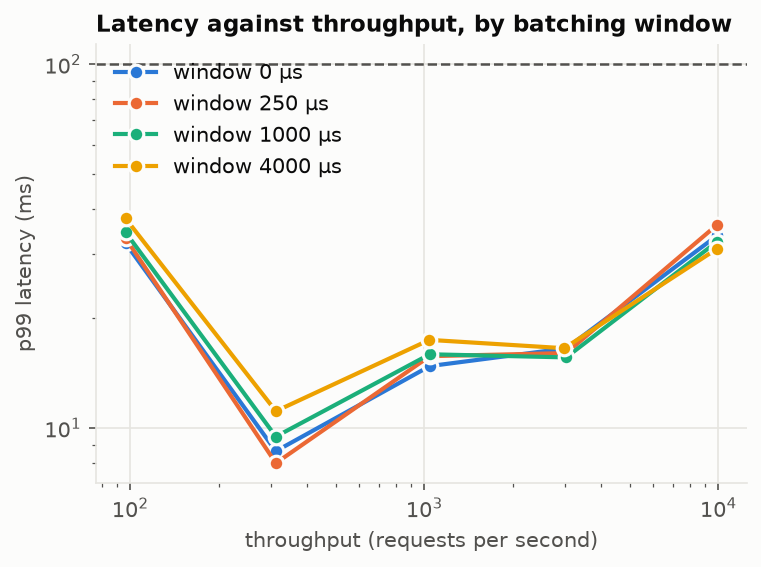
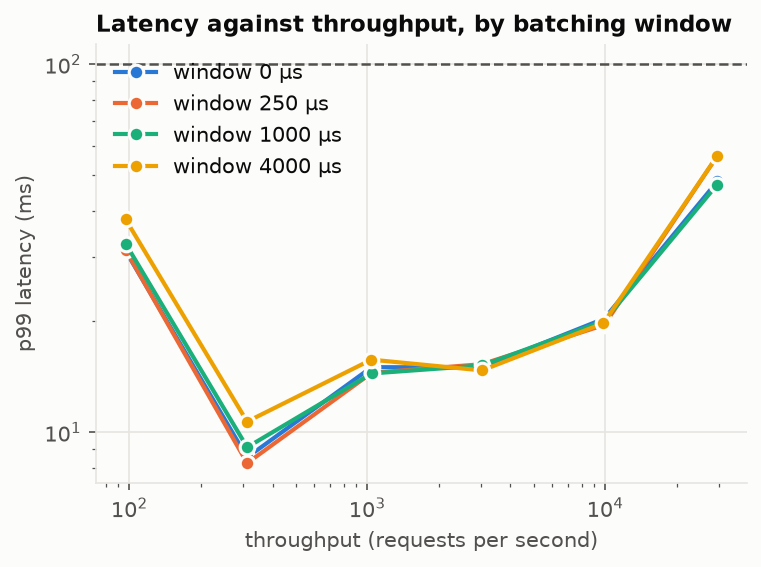
Planning service results after parallel connection

diff --git a/bench/README.md b/bench/README.md
@@ -105,38 +105,41 @@ changes the roadmap. Compile with `COVEN_SCHEDULE=runtime` to choose it with `OM
   refused.
 - **Rates:** 100, 300, 1,000, 3,000, 10,000 and 30,000 requests per second.
 - **Capacity:** the highest tested rate served with p99 latency at most 100 ms and nothing refused.
-  The steps are coarse, so 10,000 means "between 10,000 and 30,000".
-- **Saturated throughput:** requests answered per second when 30,000 per second are offered.
+  The steps are coarse: 10,000 means "between 10,000 and 30,000", and 30,000 means "at least
+  30,000".
+- **Served at 30,000:** requests answered per second when 30,000 per second are offered.
 
-[`load.py`](load.py) runs the same test over HTTP against `coven-server`. Coven `00df383`.
+[`load.py`](load.py) runs the same test over HTTP against `coven-server`. Coven `5d9553a`.
 
 ### Batching window
 
 ![Latency against throughput, by batching window](results/figures/6_serving.png)
 
-Lazy, one scene moving every second, 16 threads. Up to 10,000 requests per second the p50 stays at
-0.4–3 ms and the p99 under 40 ms. Waiting for a batch to fill never helps: when the service is busy,
-new requests join the next round anyway, and when it is idle the wait only adds latency (p50 at 100
-requests/s: 0.4 ms with no window, 4.5 ms with 4 ms). The default window is 0. At 30,000 offered the
-service saturates at 18,400–19,100 requests per second.
+Lazy, one scene moving every second, 16 threads. Up to 30,000 requests per second, the highest rate
+tested, the p50 stays at 0.3–4.5 ms and the p99 under 60 ms. Waiting for a batch to fill never
+helps: when the service is busy, new requests join the next round anyway, and when it is idle the
+wait only adds latency (p50 at 100 requests/s: 0.4 ms with no window, 4.5 ms with 4 ms). The default
+window is 0.
 
 ### Threads and scenes
 
 ![Capacity by thread count](results/figures/7_scenes.png)
 
-Scenes moving every second:
+Scenes moving every second, capacity in requests per second:
 
-| | 1 thread | 4 threads | 16 threads | Saturated, 16 threads |
+| | 1 thread | 4 threads | 16 threads | Served at 30,000, 16 threads |
 |---|---|---|---|---|
-| Lazy, 1 shared scene | 313 | 3,036 | 9,915 | 18,762 |
-| Lazy, 16 separate scenes | 0 | 309 | 1,043 | 7,752 |
-| Eager, 1 shared scene | 2,979 | 9,920 | 9,963 | 21,465 |
-| Eager, 16 separate scenes | 0 | 0 | 0 | 14,869 |
+| Lazy, 1 shared scene | 313 | 3,038 | 29,598 | 29,598 |
+| Lazy, 16 separate scenes | 0 | 309 | 3,031 | 15,926 |
+| Eager, 1 shared scene | 2,979 | 9,930 | 29,892 | 29,892 |
+| Eager, 16 separate scenes | 0 | 0 | 0 | 23,376 |
 
-Capacity in requests per second. Lazy saturated throughput grows 15× from 1 to 16 threads. Separate
-scenes share no checks: each request in a fresh scene version finds its blocked edges on its own,
-which takes 3.5–10 rounds instead of 2.3–3 in a shared scene. Eager with 16 scenes has p50 under 5 ms but p99 of 160–350 ms:
-all 16 scenes move at the same moment, and the 16 rechecks run back to back while requests wait.
+At 30,000 offered, lazy with one scene answers 1,284 requests per second on 1 thread, 9,445 on 4 and
+29,598 on 16: at least 23× from 1 to 16 threads, since 16 threads keep up with the offered rate.
+Separate scenes share no checks: each request in a fresh scene version finds its blocked edges on its
+own, which takes 3.4–10 rounds instead of 2–3 in a shared scene. Eager with 16 scenes has p50 under
+10 ms but p99 of 165–300 ms: all 16 scenes move at the same moment, and the 16 rechecks run back to
+back while requests wait.
 
 ### Lazy against eager
 
@@ -146,24 +149,23 @@ One scene, 16 threads:
 
 | Obstacles move | Lazy capacity | Eager capacity | Lazy p50 at 100/s | Eager p50 at 100/s |
 |---|---|---|---|---|
-| every 10 ms | 306 | 9,871 | 1.7 ms | 30.7 ms |
-| every 100 ms | 9,755 | 9,965 | 1.4 ms | 0.4 ms |
-| every second | 9,915 | 9,963 | 0.4 ms | 0.4 ms |
-| never | 9,995 | 9,999 | 0.4 ms | 0.4 ms |
+| every 10 ms | 307 | 9,874 | 1.7 ms | 28.7 ms |
+| every 100 ms | 9,990 | 29,901 | 1.2 ms | 0.4 ms |
+| every second | 29,598 | 29,892 | 0.4 ms | 0.4 ms |
+| never | 30,010 | 30,016 | 0.4 ms | 0.4 ms |
 
 - **Eager** rechecks the whole roadmap on every change, about 14 ms here. Requests then need no edge
   checks, but a recheck can run before each of their two rounds: when the scene changes every 10 ms,
-  the dispatcher is rechecking 82–96% of the time up to 3,000 requests per second, and the median
-  request takes 31 ms.
+  the dispatcher is rechecking 89–96% of the time up to 3,000 requests per second, and the median
+  request takes about 30 ms.
 - **Lazy** checks only edges on candidate routes, so requests rarely wait behind anything, but the
   first requests after each change know nothing yet and take 4–5 rounds. When the scene changes
   every 10 ms, most requests are such requests, and the p99 passes 100 ms between 300 and 1,000
-  requests per second.
-- From one change per 100 ms on, both serve 10,000 requests per second within 100 ms p99.
+  requests per second. Every 100 ms, lazy serves 10,000 requests per second and eager 30,000.
+- When the scene changes every second or never, both serve at least 30,000 requests per second.
 
-At saturation with 16 threads and one scene, the dispatcher spends 23–34% of its time searching and
-9–14% checking. Most of the rest goes to taking requests in, where each finds its 8 nearest valid
-vertices by a serial scan of the roadmap, and to answering them.
+At 30,000 offered with 16 threads and one scene, the dispatcher spends 51–83% of its time connecting
+new requests and searching, which run in parallel across requests, and 11–17% checking.
 
 ## Reproduce
 

diff --git a/README.md b/README.md
@@ -89,8 +89,9 @@ curl -X POST localhost:8000/scenes/cell/plan \
 - **Lazy or eager.** By default only edges on candidate routes are checked (Lazy PRM). `--eager`
   rechecks the whole roadmap on every scene change.
 
-API: [`coven/server.py`](coven/server.py). In C++: `coven::Service` in
-[`include/coven/service.hh`](include/coven/service.hh); in Python: `coven.panda.Service`.
+API: [`coven/server.py`](coven/server.py).
+- C++: `coven::Service` in [`include/coven/service.hh`](include/coven/service.hh)
+- Python: `coven.panda.Service`.
 
 ## Performance
 
@@ -101,7 +102,7 @@ API: [`coven/server.py`](coven/server.py). In C++: `coven::Service` in
 Each doubling of threads cuts the wall time by 40–49%. **Left**: speedup over VAMP's serial PRM. **Right**:
 speedup over one thread.
 
-Planning service answers 10,000 requests per second with p99 latency under 40 ms (10,000-node
+Planning service answers 30,000 requests per second with p99 latency under 50 ms (10,000-node
 roadmap, one scene moving every second).
 
 Setup, per-environment results, OpenMP schedules, batch sizes, planning service load tests and how
